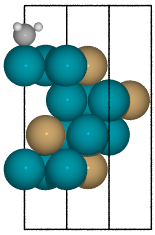
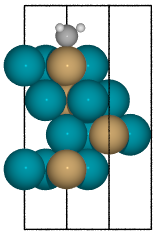
update the exmaples and fix up the tests

diff --git a/catkit/gen/tests/test_examples.py b/catkit/gen/tests/test_examples.py
@@ -28,14 +28,14 @@ class TestGenDocs(unittest.TestCase):
         atoms[3].symbol = 'Cu'
 
         gen = SlabGenerator(
-            atoms, miller_index=(2, 1, 1), layers=9, fixed=5, vacuum=4)
+            atoms, miller_index=(2, 1, 1), layers=6, fixed=5, vacuum=4)
 
         terminations = gen.get_unique_terminations()
         assert (len(terminations) == 2)
 
         for i, t in enumerate(terminations):
             slab = gen.get_slab(iterm=i)
-            assert (len(slab) == 18)
+            assert (len(slab) == 16)
 
         atoms = surface('Pd', size=(3, 3), miller=(1, 1, 1), vacuum=4)
         con_matrix = atoms.connectivity
@@ -60,7 +60,8 @@ class TestGenDocs(unittest.TestCase):
         atoms[3].symbol = 'Cu'
 
         gen = SlabGenerator(
-            atoms, miller_index=(1, 1, 1), layers=3, fixed=2, vacuum=10)
+            atoms, miller_index=(1, 1, 1), layers=3, layer_type='trim',
+            fixed=2, vacuum=10)
 
         atoms = gen.get_slab()
         coordinates, connectivity = gen.adsorption_sites(atoms)
@@ -73,7 +74,8 @@ class TestGenDocs(unittest.TestCase):
         atoms = bulk('Pd', 'fcc', a=5, cubic=True)
         atoms[3].symbol = 'Cu'
 
-        gen = SlabGenerator(atoms, miller_index=(1, 1, 1), layers=3, vacuum=4)
+        gen = SlabGenerator(atoms, miller_index=(1, 1, 1), layer_type='trim',
+                            layers=3, vacuum=4)
 
         atoms = gen.get_slab()
 
@@ -83,7 +85,7 @@ class TestGenDocs(unittest.TestCase):
         atoms = bulk('Pd', 'fcc', a=5, cubic=True)
         atoms[3].symbol = 'Cu'
 
-        gen = SlabGenerator(atoms, miller_index=(3, 2, 1), layers=13, vacuum=5)
+        gen = SlabGenerator(atoms, miller_index=(3, 2, 1), layers=8, vacuum=5)
 
         atoms = gen.get_slab()
         sites = AdsorptionSites(atoms)
@@ -107,7 +109,7 @@ class TestGenDocs(unittest.TestCase):
         atoms = bulk('Pd', 'fcc', a=5, cubic=True)
         atoms[3].symbol = 'Cu'
 
-        gen = SlabGenerator(atoms, miller_index=(2, 1, 1), layers=10, vacuum=5)
+        gen = SlabGenerator(atoms, miller_index=(2, 1, 1), layers=8, vacuum=5)
 
         atoms = gen.get_slab()
         sites = AdsorptionSites(atoms)

diff --git a/catkit/gen/tests/test_surfaces.py b/catkit/gen/tests/test_surfaces.py
@@ -31,20 +31,21 @@ class TestSlabGenerator(unittest.TestCase):
         greatest common divisor.
         """
         atoms = bulk('Pd', 'fcc')
-        gen = SlabGenerator(atoms, miller_index=(3, 3, 3), layers=3)
+        gen = SlabGenerator(atoms, miller_index=(3, 3, 3),
+                            layers=3, layer_type='trim')
 
         np.testing.assert_array_equal(gen.miller_index, [1, 1, 1])
 
     def test_no_standardization(self):
         """Test that the slab generator functions if not standardized."""
         atoms = bulk('Pd', 'fcc', cubic=True)
-        SlabGenerator(atoms, miller_index=(1, 1, 1),
-                      layers=3, standardize_bulk=False)
+        SlabGenerator(atoms, miller_index=(1, 1, 1), layer_type='trim',
+                      layers=3, standardize_bulk=True)
 
     def test_matrix_notation_search(self):
         """Test the matrix notation algorithm."""
         atoms = bulk('Pd', 'fcc', cubic=True)
-        gen = SlabGenerator(atoms, miller_index=(1, 1, 1), layers=3)
+        gen = SlabGenerator(atoms, miller_index=(1, 1, 1), layers=6)
 
         gen.get_slab(size=1)
         gen.get_slab(size=[[1, 0], [0, 1]])

diff --git a/catkit/gen/surface.py b/catkit/gen/surface.py
@@ -328,6 +328,16 @@ class SlabGenerator(object):
             given.
         """
         slab = self.get_slab_basis(iterm).copy()
+        slab = self.set_size(slab, size)
+
+        # Orthogonalize the z-coordinate
+        # Breaks bulk periodicity in the c-basis
+        slab.cell[2] = [0, 0, slab.cell[2][2]]
+        slab.set_pbc([1, 1, 0])
+
+        if slab.cell[1][0] < 0:
+            slab = transform_ab(slab, [[-1, 0], [0, 1]])
+            slab.arrays['surface_atoms'] *= -1
 
         # Trim the bottom of the cell, bulk symmetry may be lost
         if self.layer_type == 'trim':
@@ -341,16 +351,6 @@ class SlabGenerator(object):
 
             slab.cell[2][2] -= ncut
             slab.translate([0, 0, -ncut])
-
-        slab = self.set_size(slab, size)
-
-        # Orthogonalize the z-coordinate
-        # Breaks bulk periodicity in the c-basis
-        slab.cell[2] = [0, 0, slab.cell[2][2]]
-        slab.set_pbc([1, 1, 0])
-
-        if slab.cell[1][0] < 0:
-            slab = transform_ab(slab, [[-1, 0], [0, 1]])
 
         tl = np.argmax(slab.get_scaled_positions()[:, 2])
         translation = slab[tl].position.copy()

diff --git a/catkit/gen/tests/test_utils.py b/catkit/gen/tests/test_utils.py
@@ -6,12 +6,12 @@ import numpy as np
 class TestUtils(unittest.TestCase):
     """Test features of catkit.gen.utils"""
 
-    def test_rmean(self):
-        """Test the rolling mean."""
-        test_range = utils.rmean(np.arange(4))
+    def test_running_mean(self):
+        """Test the running mean."""
+        test_range = utils.running_mean(np.arange(4))
         assert(test_range == [1.5])
 
-        test_range = utils.rmean(np.arange(7))
+        test_range = utils.running_mean(np.arange(7))
         assert(test_range.tolist() == [2.0, 3.0, 4.0])
 
     def test_trilaterate(self):
